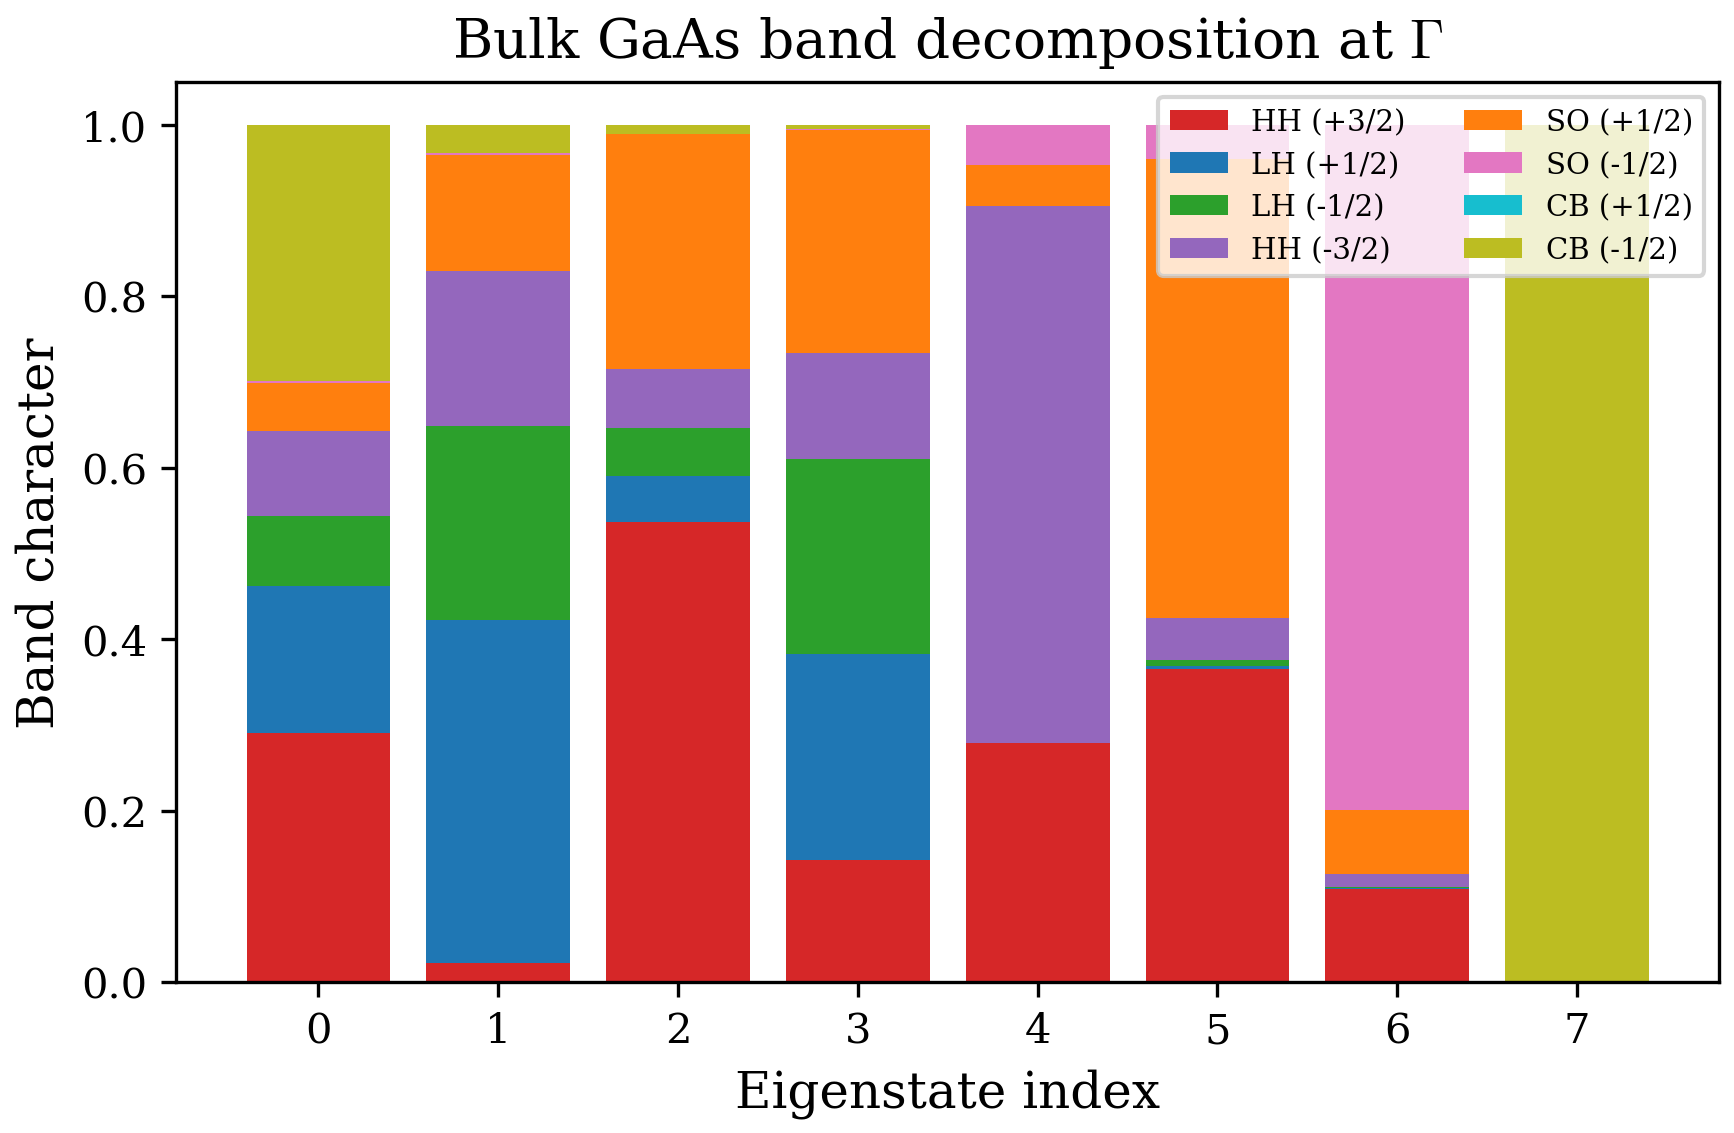
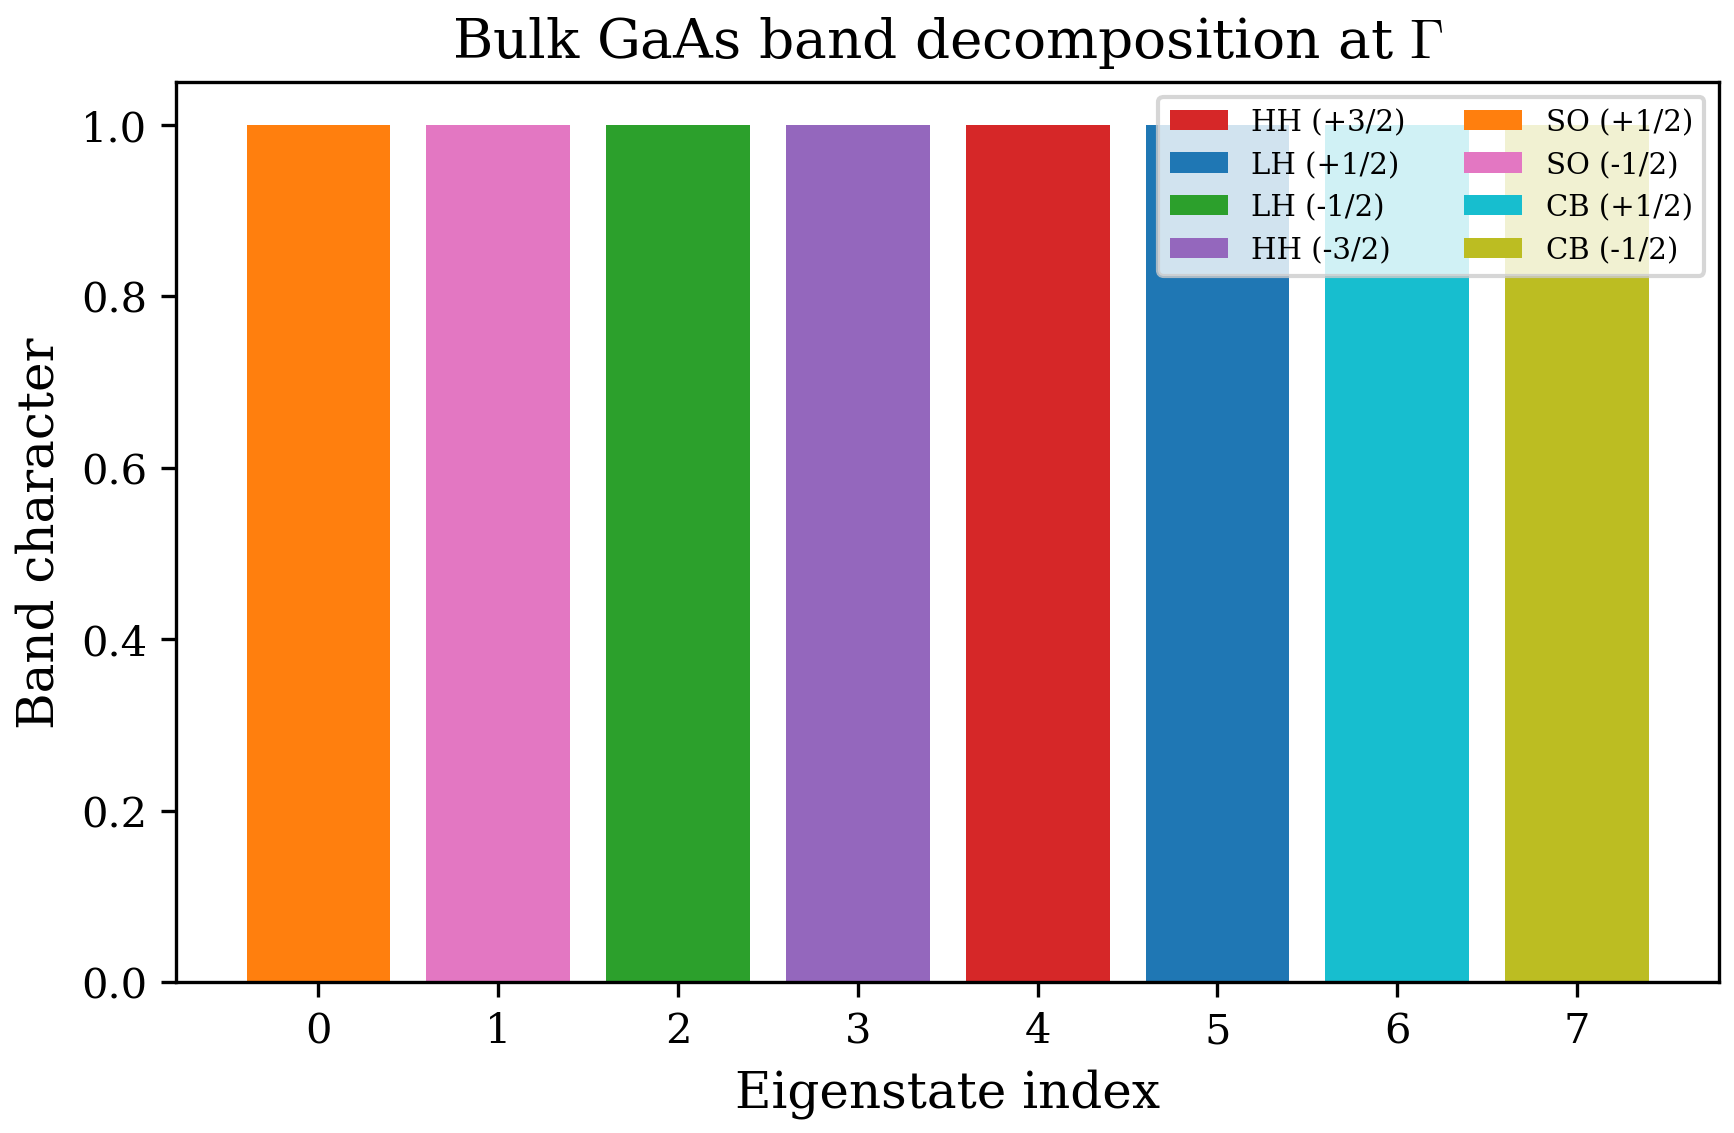
docs: add bulk strain/warping figures and overhaul design doc
New figures: bulk_gaas_bands_110, bulk_gaas_parts_vs_k, bulk_gaas_warping,
bulk_gaas_strained_bands, bulk_gaas_strain_comparison.
Update bulk_gaas_parts for corrected k=0 pure-state decomposition.

diff --git a/docs/plans/2026-04-06-bulk-chapter-overhaul-design.md b/docs/plans/2026-04-06-bulk-chapter-overhaul-design.md
@@ -1,0 +1,306 @@
+# Design: Bulk Chapter Overhaul
+
+Date: 2026-04-06
+
+## Problem Statement
+
+Five issues with `docs/lecture/01-bulk-band-structure.md` and supporting code:
+
+1. **CRITICAL: `parts.dat` is overwritten** — only the last k-point's band decomposition survives, showing mixed states instead of pure Gamma-point character
+2. **LaTeX formulas don't render** in VS Code markdown preview
+3. **Missing directional sweeps** — no [110], [101], [011] directions to show valence band warping
+4. **No bulk strain** — Pikus-Bir strain exists for QW/wire but not bulk mode
+5. **Documentation needs rewriting** to cover all new features with nextnano tutorial validation
+
+## Task 1: Fix `parts.dat` Overwrite Bug
+
+### Root Cause
+
+In `src/io/outputFunctions.f90:84`, `writeEigenfunctions` opens `parts.dat` with
+`status='replace'` every call. The main program (`src/apps/main.f90:645-650`) calls
+it at k=1, k=mid, k=end — only the LAST call's data survives.
+
+At k=0 (Gamma), eigenvectors ARE pure one-hot vectors:
+- State 1: 100% basis 5 (SO↑), State 2: 100% basis 6 (SO↓)
+- States 3-6: 100% valence (HH/LH)
+- States 7-8: 100% basis 7/8 (CB)
+
+But the saved file shows k=0.1 data where bands mix.
+
+### Fix
+
+Change `parts.dat` to **multi-block gnuplot format** with k-point headers:
+
+```fortran
+! In writeEigenfunctions, for bulk:
+if (is_bulk) then
+  if (k == 1) then
+    open(unit=iounit2, file=OUTPUT_DIR//'/parts.dat', status='replace', action='write')
+  else
+    open(unit=iounit2, file=OUTPUT_DIR//'/parts.dat', position='append', action='write')
+  end if
+  write(iounit2, '("# k = ", g14.6)') k_value  ! gnuplot index separator
+  ! ... write parts rows ...
+  close(iounit2)
+end if
+```
+
+The gnuplot format uses blank lines + comment headers between blocks.
+`gnuplot> plot 'parts.dat' index 0 ...` selects the Gamma-point block.
+
+**Files modified:**
+- `src/io/outputFunctions.f90` — writeEigenfunctions subroutine
+- `scripts/plotting/generate_all_figures.py` — `fig_bulk_gaas_parts` to read first block
+
+### Validation
+
+Run bulk GaAs, verify parts.dat block 1 (k=0):
+- Rows 1-2: 100% in columns 5,6 (SO)
+- Rows 3-6: 100% in columns 1-4 (valence)
+- Rows 7-8: 100% in columns 7,8 (CB)
+
+## Task 2: VS Code LaTeX Rendering
+
+Add `.vscode/settings.json` with math preview enabled:
+
+```json
+{
+  "markdown.math.enabled": true
+}
+```
+
+This enables built-in KaTeX rendering in VS Code 1.75+. No extensions needed.
+The existing `$...$` and `$$...$$` syntax in docs will render immediately.
+
+**Files created:**
+- `.vscode/settings.json`
+
+## Task 3: Diagonal Direction Sweeps (kxky, kxkz, kykz)
+
+### Current State
+
+`src/apps/main.f90:62-78` supports `kx`, `ky`, `kz`, `k0` — single-axis sweeps only.
+
+### Implementation
+
+Add three new waveVector modes in the select block:
+
+```fortran
+case ("kxky")
+  ! [110] direction: kx = ky = k, kz = 0
+  do i = 1, cfg%waveVectorStep
+    k = (i-1) * cfg%waveVectorMax / (cfg%waveVectorStep - 1)
+    smallk(i)%kx = k
+    smallk(i)%ky = k
+    smallk(i)%kz = 0.0_dp
+  end do
+
+case ("kxkz")
+  ! [101] direction: kx = kz = k, ky = 0
+  do i = 1, cfg%waveVectorStep
+    k = (i-1) * cfg%waveVectorMax / (cfg%waveVectorStep - 1)
+    smallk(i)%kx = k
+    smallk(i)%kz = k
+    smallk(i)%ky = 0.0_dp
+  end do
+
+case ("kykz")
+  ! [011] direction: ky = kz = k, kx = 0
+  do i = 1, cfg%waveVectorStep
+    k = (i-1) * cfg%waveVectorMax / (cfg%waveVectorStep - 1)
+    smallk(i)%ky = k
+    smallk(i)%kz = k
+    smallk(i)%kx = 0.0_dp
+  end do
+```
+
+The eigenvalue output format already stores `|k|` (magnitude), so no output changes needed.
+The plotting script should label the direction axis as `|k| [110]` etc.
+
+### Physics: Valence Band Warping
+
+Along [100]: HH effective mass is governed by γ₁ - 2γ₂
+Along [110]: HH effective mass mixes with γ₃ → different curvature
+
+The difference between [100] and [110] valence dispersion directly reveals
+the cubic anisotropy parameterized by γ₂ ≠ γ₃. For GaAs: γ₂ = 2.06, γ₃ = 2.93.
+
+### Config Files
+
+Add regression configs:
+- `tests/regression/configs/bulk_gaas_kxky.cfg`
+- `tests/regression/configs/bulk_gaas_kxkz.cfg`
+
+### Figures
+
+New figures in `generate_all_figures.py`:
+- `bulk_gaas_bands_110.png` — E(k) along [110] with comparison to [100]
+- `bulk_gaas_warping.png` — overlay [100], [110], [111] dispersions (HH/LH only)
+
+**Files modified:**
+- `src/apps/main.f90` — add three cases to waveVector select
+- `scripts/plotting/generate_all_figures.py` — new figure functions
+
+## Task 4: Bulk Strain (Pikus-Bir)
+
+### Current State
+
+Strain is fully implemented for QW (`compute_strain_qw`) and wire (`compute_strain_wire`)
+in `src/physics/strain_solver.f90`. The `apply_pikus_bir` subroutine applies deformation
+potentials to the profile array. ALL material parameters are populated (C11, C12, C44, ac,
+av, b_dp, d_dp, a0).
+
+But bulk mode (ndim=0) returns immediately from `compute_strain` — no strain applied.
+
+### Implementation: Uniform Biaxial Strain
+
+For bulk, add strain directly to the Hamiltonian diagonal in `ZB8bandBulk`.
+No need for the spatial strain solver — bulk is spatially uniform.
+
+Add a new input parameter `strainSubstrate` (lattice constant in Angstrom):
+```
+strainSubstrate: 5.869   ! InP substrate lattice constant
+```
+
+When set (nonzero), compute uniform biaxial strain:
+```
+eps_parallel = (a_substrate - a_film) / a_film
+eps_perp = -2 * C12/C11 * eps_parallel
+Tr(eps) = 2*eps_parallel + eps_perp
+```
+
+Apply Pikus-Bir shifts to the 8x8 Hamiltonian diagonal:
+```
+delta_Ec = ac * Tr(eps)                        ! CB shift
+delta_HH = av * Tr(eps) + b/2 * (eps_perp - eps_parallel)  ! HH shift
+delta_LH = av * Tr(eps) - b/2 * (eps_perp - eps_parallel)  ! LH shift
+delta_SO = av * Tr(eps)                                    ! SO shift (no shear term)
+```
+
+Note: `av` uses positive sign convention (already in code). The deformation
+potential `b_dp` is the Bir shear parameter.
+
+### Hamiltonian Modification
+
+In `ZB8bandBulk`, after building the standard Hamiltonian, add strain shifts:
+
+```fortran
+! Strain shifts (if strainSubstrate > 0)
+if (params(1)%strainSubstrate > 0.0_dp) then
+  a_film = params(1)%a0
+  eps_par = (params(1)%strainSubstrate - a_film) / a_film
+  eps_per = -2.0_dp * params(1)%C12 / params(1)%C11 * eps_par
+  Tr_eps = 2.0_dp * eps_par + eps_per
+
+  ! CB (bands 7,8): ac * Tr(eps)
+  HT(7,7) = HT(7,7) + params(1)%ac * Tr_eps
+  HT(8,8) = HT(8,8) + params(1)%ac * Tr_eps
+
+  ! HH (bands 1,4): av*Tr + b/2*(eps_perp - eps_par)
+  HH_shift = params(1)%av * Tr_eps + params(1)%b_dp * 0.5_dp * (eps_per - eps_par)
+  HT(1,1) = HT(1,1) + HH_shift
+  HT(4,4) = HT(4,4) + HH_shift
+
+  ! LH (bands 2,3): av*Tr - b/2*(eps_perp - eps_par)
+  LH_shift = params(1)%av * Tr_eps - params(1)%b_dp * 0.5_dp * (eps_per - eps_par)
+  HT(2,2) = HT(2,2) + LH_shift
+  HT(3,3) = HT(3,3) + LH_shift
+
+  ! SO (bands 5,6): av*Tr
+  SO_shift = params(1)%av * Tr_eps
+  HT(5,5) = HT(5,5) + SO_shift
+  HT(6,6) = HT(6,6) + SO_shift
+end if
+```
+
+### Config
+
+```ini
+waveVector: kx
+waveVectorMax: 0.1
+waveVectorStep: 11
+confinement:  0
+FDstep: 1
+FDorder: 2
+numLayers:  1
+material1: GaAs
+numcb: 2
+numvb: 6
+ExternalField: 0  EF
+EFParams: 0.0005
+strainSubstrate: 5.869
+```
+
+### Validation (nextnano tutorial)
+
+GaAs pseudomorphically strained to InP (a₀ = 5.869 Å):
+- GaAs a₀ = 5.653 Å → eps_∥ = (5.869 - 5.653)/5.653 = +3.82% (tensile)
+- eps_⊥ = -2 × 566/1221 × 0.0382 = -0.0354
+- Tr(eps) = 2(0.0382) + (-0.0354) = 0.041
+- δE_C = -7.17 × 0.041 = -0.294 eV
+- δE_HH = 1.16 × 0.041 + (-2.0)/2 × (-0.0354 - 0.0382) = 0.048 + 0.074 = 0.121 eV
+- δE_LH = 1.16 × 0.041 - (-2.0)/2 × (-0.0354 - 0.0382) = 0.048 - 0.074 = -0.027 eV
+
+Result: HH/LH splitting at Gamma = 0.148 eV. CB shifts down by 0.294 eV.
+
+### Figures
+
+- `bulk_gaas_strained_bands.png` — E(k) for strained GaAs showing HH/LH splitting
+- `bulk_gaas_strain_comparison.png` — overlay unstrained vs strained
+
+**Files modified:**
+- `src/physics/hamiltonianConstructor.f90` — add strain to ZB8bandBulk
+- `src/core/defs.f90` — add strainSubstrate to paramStruct
+- `src/core/parameters.f90` — initialize strainSubstrate = 0
+- `src/io/input_parser.f90` — parse strainSubstrate
+- `scripts/plotting/generate_all_figures.py` — new figure functions
+
+## Task 5: Config Files
+
+New regression configs:
+- `tests/regression/configs/bulk_gaas_kxky.cfg` — [110] sweep
+- `tests/regression/configs/bulk_gaas_strained.cfg` — strained to InP
+
+## Task 6: Figure Updates
+
+Update `scripts/plotting/generate_all_figures.py`:
+
+1. **Fix `fig_bulk_gaas_parts`** — read only the first block (k=0) from multi-block parts.dat
+2. **Add `fig_bulk_gaas_bands_110`** — E(k) along [110]
+3. **Add `fig_bulk_gaas_warping`** — overlay [100] vs [110] valence bands
+4. **Add `fig_bulk_gaas_strained_bands`** — strained GaAs E(k)
+5. **Add `fig_bulk_gaas_strain_comparison`** — unstrained vs strained overlay
+
+## Task 7: Documentation Rewrite
+
+Rewrite `docs/lecture/01-bulk-band-structure.md`:
+
+- Section 1 (Theory): Keep existing content, fix any LaTeX issues
+- Section 2 (In the Code): Update module map, add strain params
+- Section 3 (Computed Examples):
+  - 3.1 Unstrained GaAs along [100] (existing)
+  - 3.2 **NEW** GaAs along [110] — show valence band warping
+  - 3.3 **NEW** Directional comparison — overlay [100] vs [110] vs [011]
+  - 3.4 **NEW** Strained GaAs (GaAs on InP) — HH/LH splitting
+  - 3.5 InAs comparison (existing, keep)
+  - 3.6 Effective mass extraction (existing)
+  - 3.7 Band decomposition at Gamma (fix with correct data)
+- Section 4 (nextnano validation): Keep, add strained comparison
+- Section 5 (Discussion): Update with warping and strain discussion
+
+## Implementation Order
+
+1. Fix parts.dat overwrite (Task 1) — immediate, unblocks correct figure
+2. Add .vscode/settings.json (Task 2) — trivial
+3. Add kxky/kxkz/kykz sweeps (Task 3) — small Fortran change
+4. Add bulk strain (Task 4) — medium Fortran change
+5. Update Python figures (Task 6) — depends on 1, 3, 4
+6. Add regression configs (Task 5) — depends on 3, 4
+7. Rewrite docs (Task 7) — depends on all above
+
+## Constraints
+
+- **NEVER** change basis ordering (CLAUDE.md rule)
+- **NEVER** modify material parameters without reference verification
+- All new code follows existing patterns (select case for waveVector, etc.)
+- Strain in bulk uses same sign conventions as QW/wire (positive av convention)
